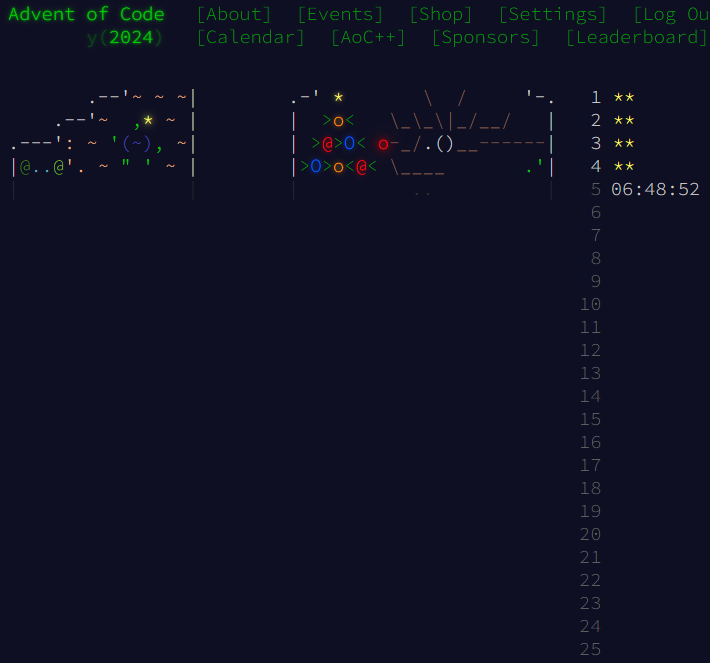
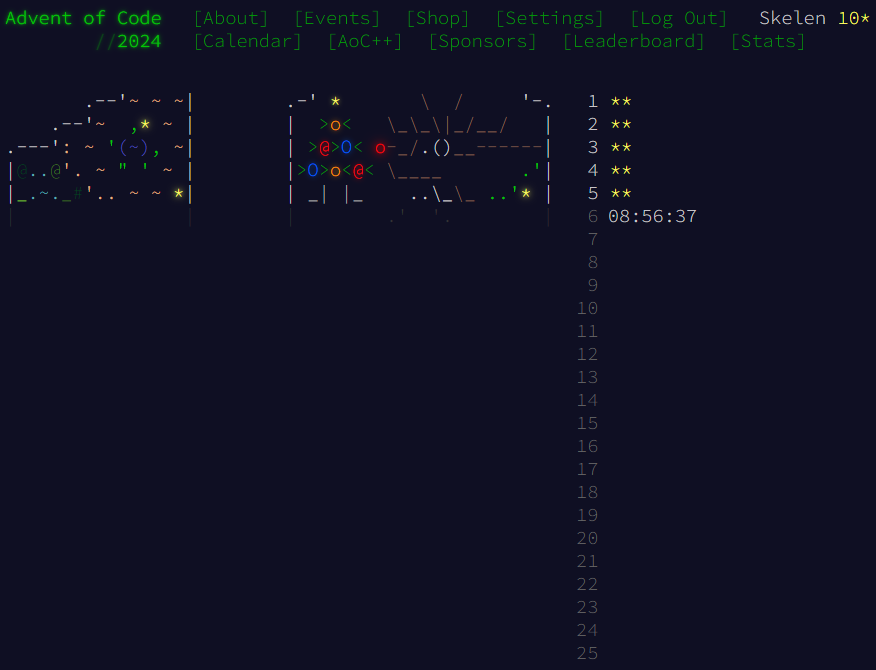
day05

diff --git a/2024/README.md b/2024/README.md
@@ -9,7 +9,7 @@ This folder contains my solutions to the **Advent of Code 2024** challenges.
 | 🎁 02 | ✅ Completed | not optimal yet |
 | 🎁 03 | ✅ Completed | not optimal yet |
 | 🎁 04 | ✅ Completed | not optimal yet |
-| 🎁 05 | ❌ Pending   |   |
+| 🎁 05 | ✅ Completed |   |
 | 🎁 06 | ❌ Pending   |   |
 | 🎁 07 | ❌ Pending   |   |
 | 🎁 08 | ❌ Pending   |   |
@@ -31,7 +31,7 @@ This folder contains my solutions to the **Advent of Code 2024** challenges.
 | 🎁 24 | ❌ Pending   |   |
 | 🎁 25 | ❌ Pending   |   |
 
-As of **December 4th, 2024**, I have completed **4 out of 25 puzzles**.  
+As of **December 5th, 2024**, I have completed **5 out of 25 puzzles**.  
 
 ## How It Works
 Each day, a new puzzle is unlocked on the Advent of Code website. These puzzles include two parts, and solving both earns a star ⭐ for that day. Successfully completing all puzzles results in a complete holiday-themed image.
@@ -39,7 +39,7 @@ Each day, a new puzzle is unlocked on the Advent of Code website. These puzzles 
 ## Holiday Image 🎨
 Once all puzzles are solved, the final holiday image from Advent of Code will appear below:
 
-![Holiday Image Placeholder](image.jpg)
+![Holiday Image](image.jpg)
 
 ---
 
